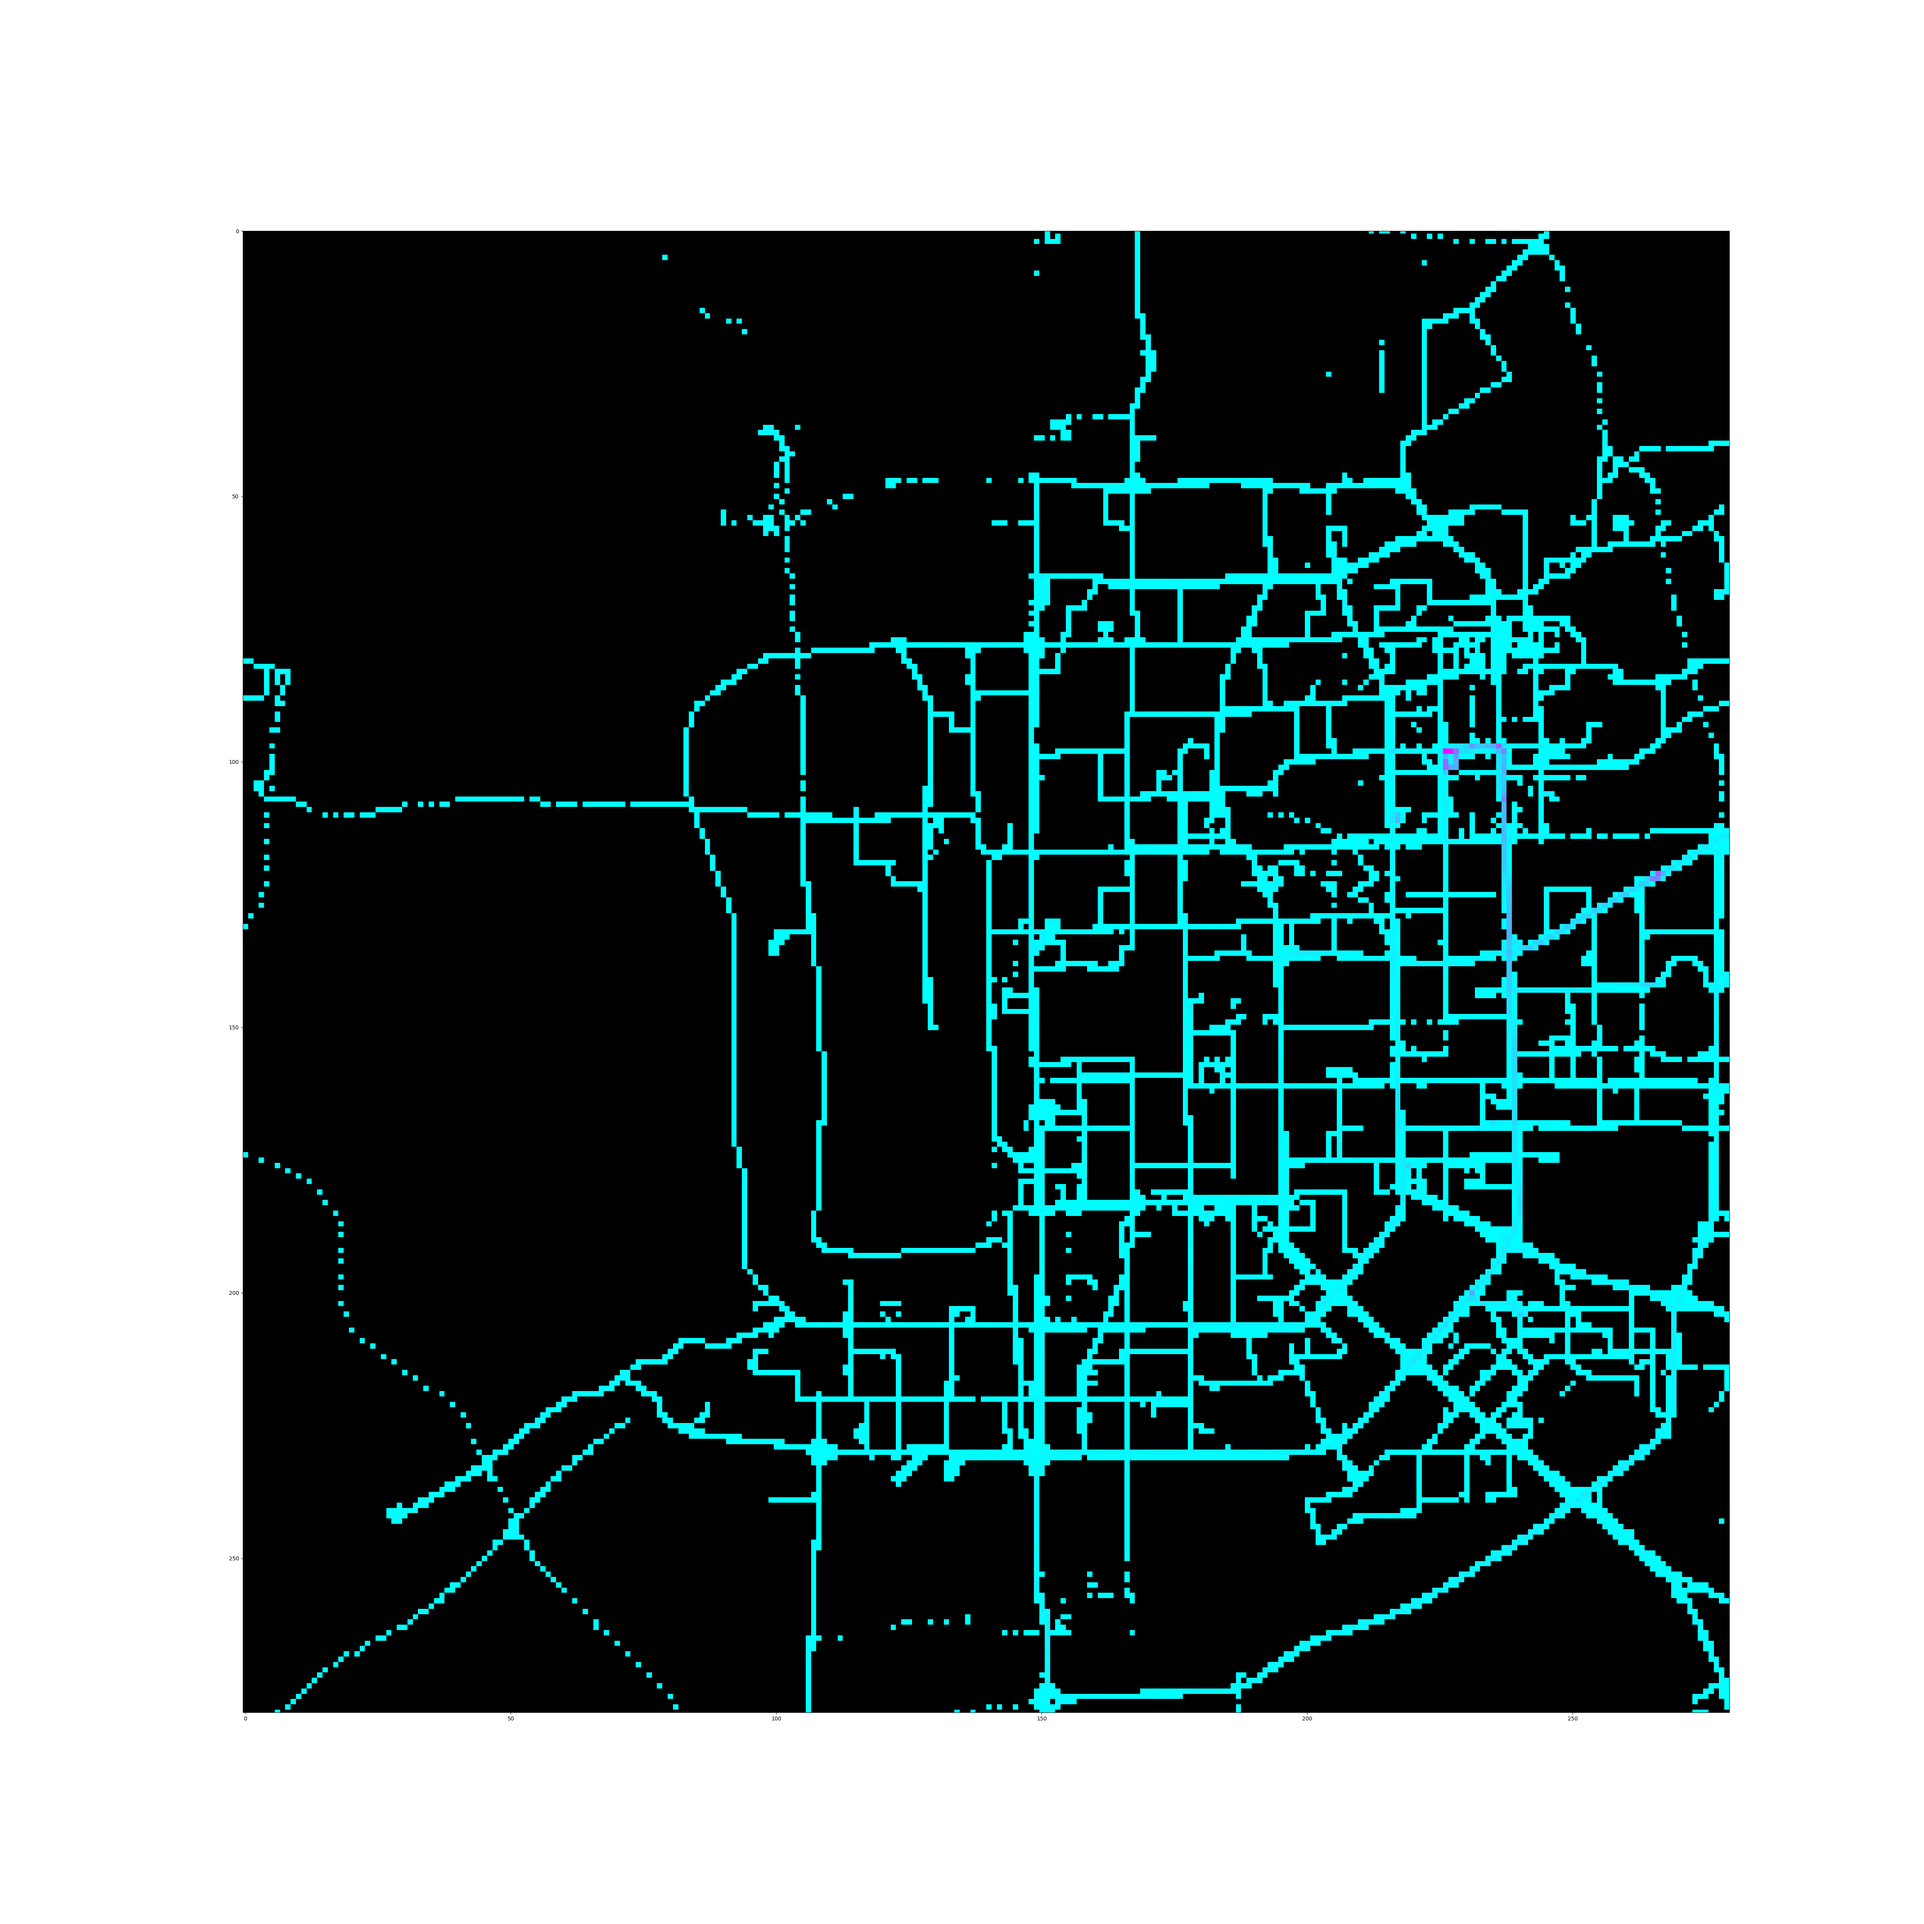
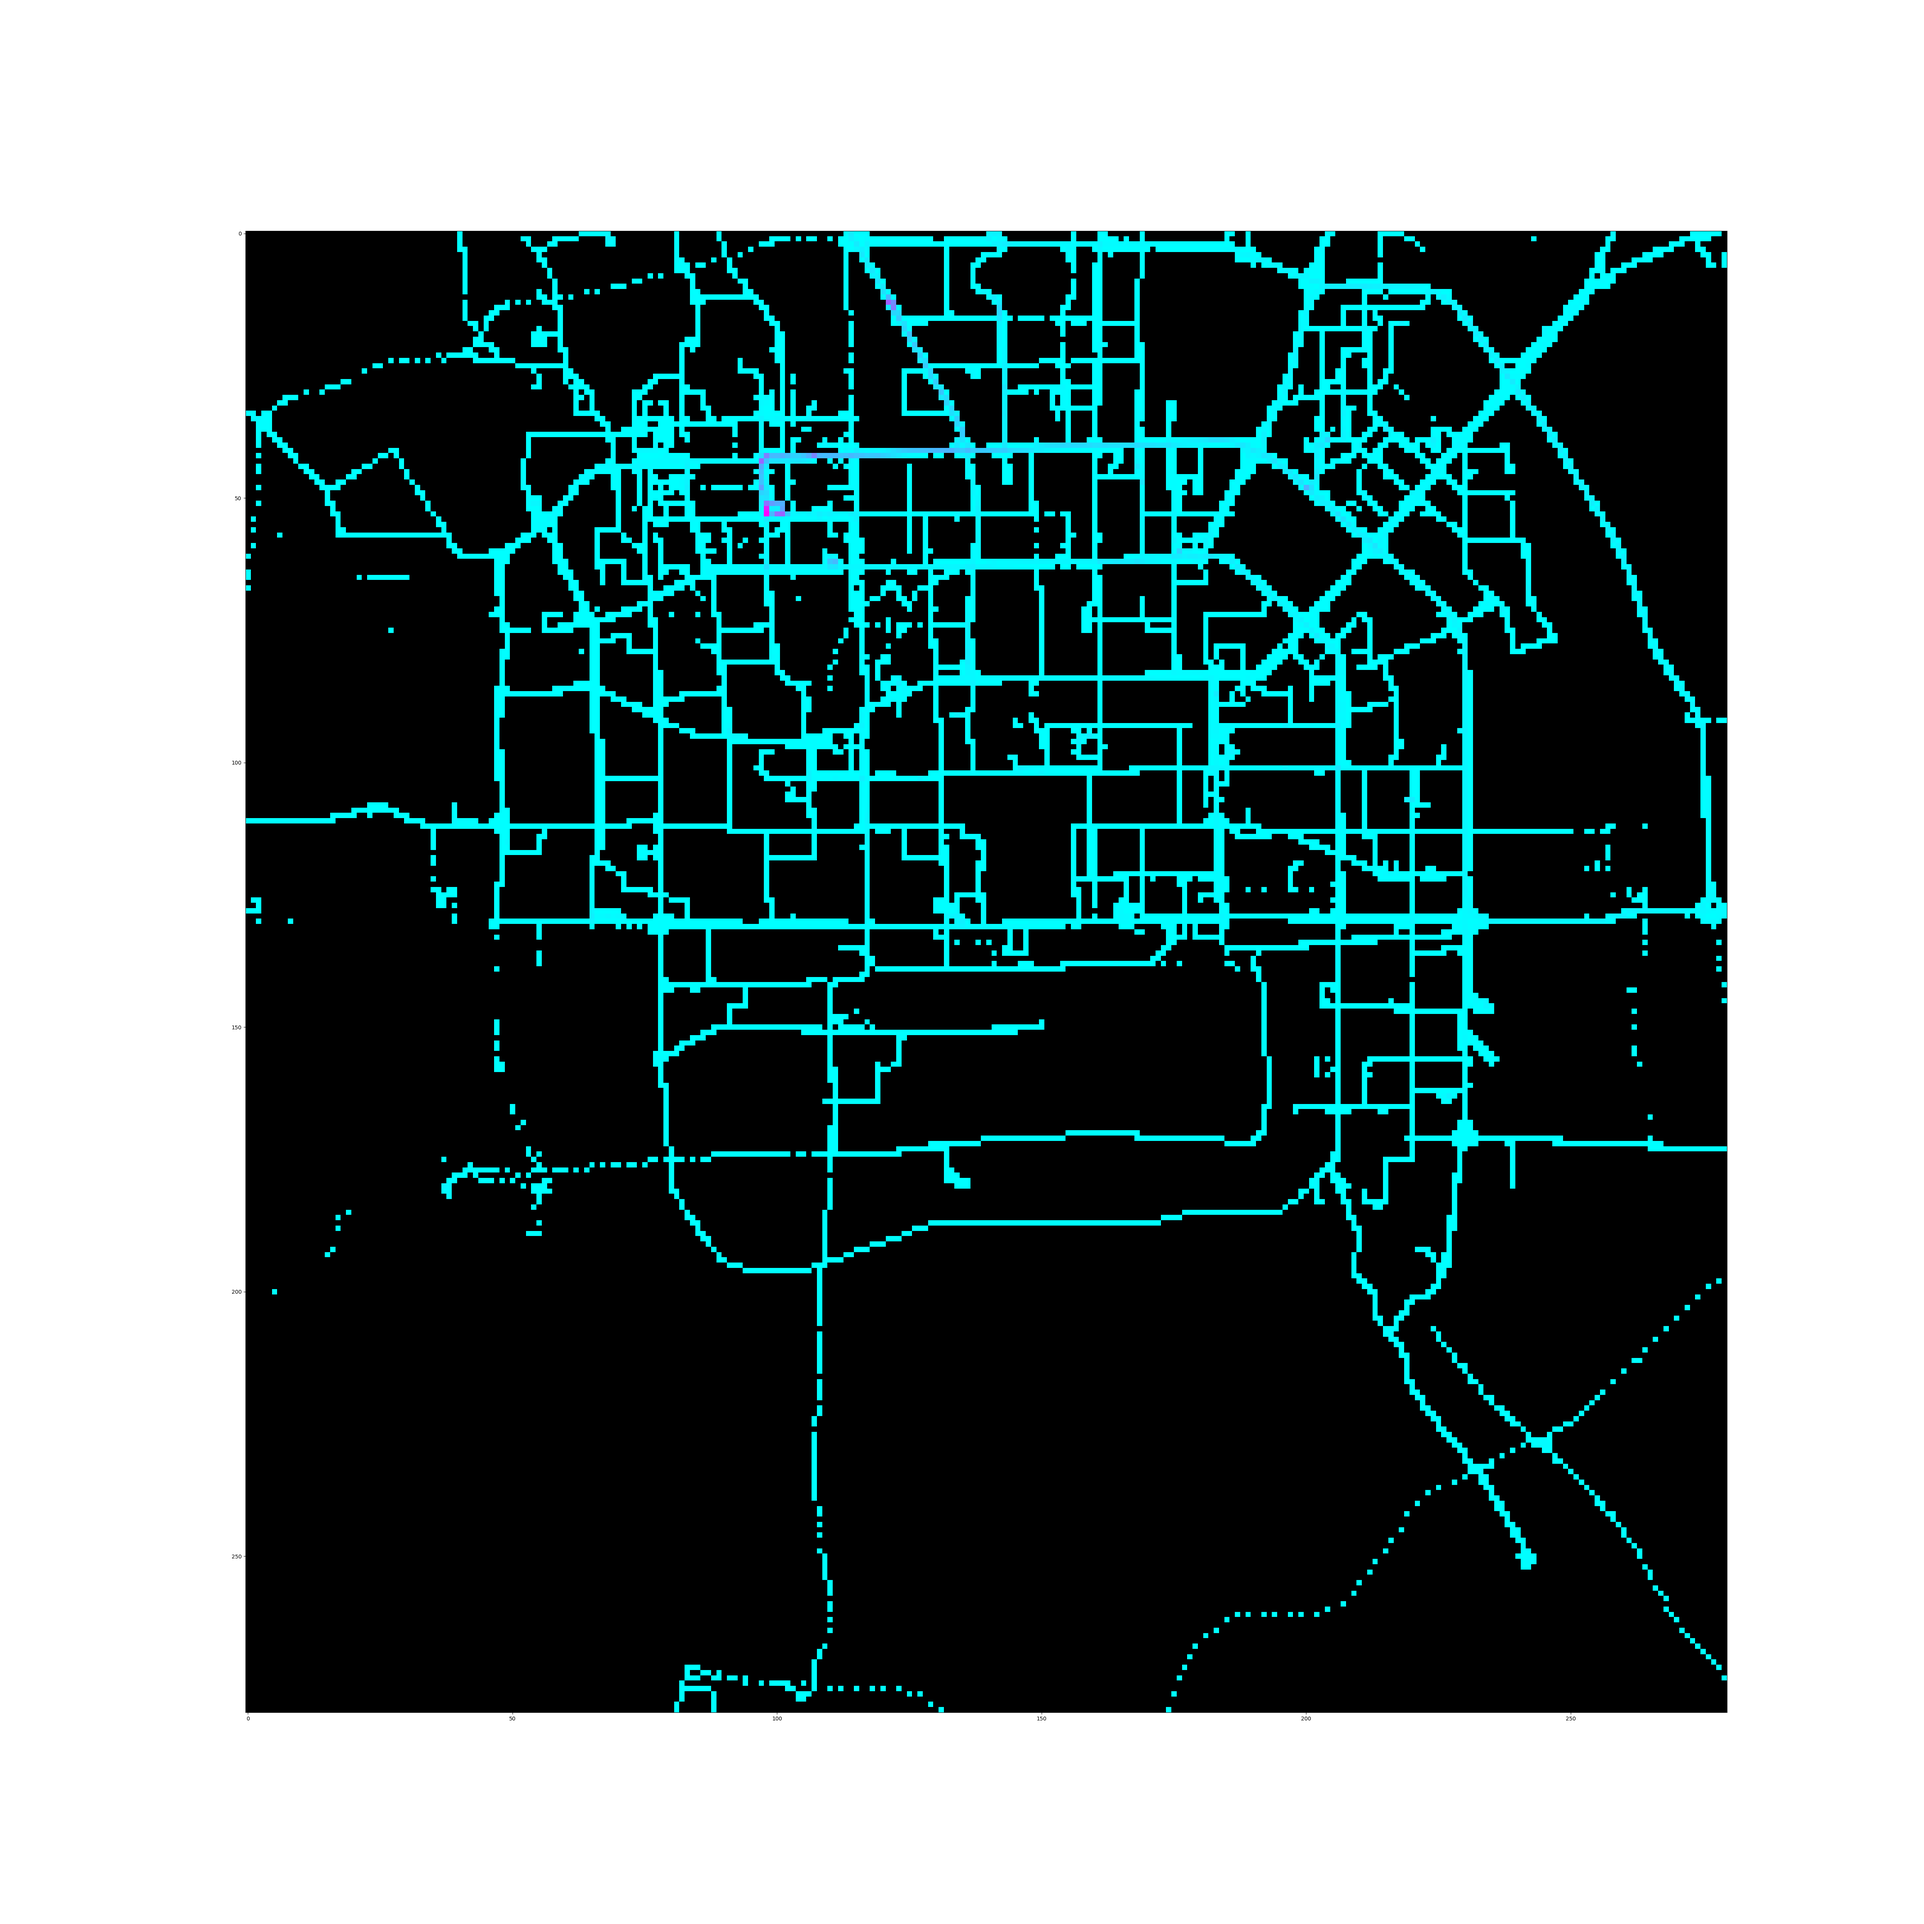
Fixed issue with heatmap axis

diff --git a/visualize.py b/visualize.py
@@ -63,13 +63,13 @@ def put_df_on_plot(df):
 
 def heatmap(df):
     H = plt.hist2d(df['long'], df['lat'], bins=280)[0]
+    H = np.flip(H.T, 0)
     plt.close()
     fig = plt.figure(figsize=(50, 50))
     H = np.ma.masked_where(H == 0, H)
     cmap = plt.get_cmap('cool')
     cmap.set_bad(color='black')
     plt.imshow(H, cmap=cmap)
-    plt.ylim(279, 0)
     plt.show()
 
 
